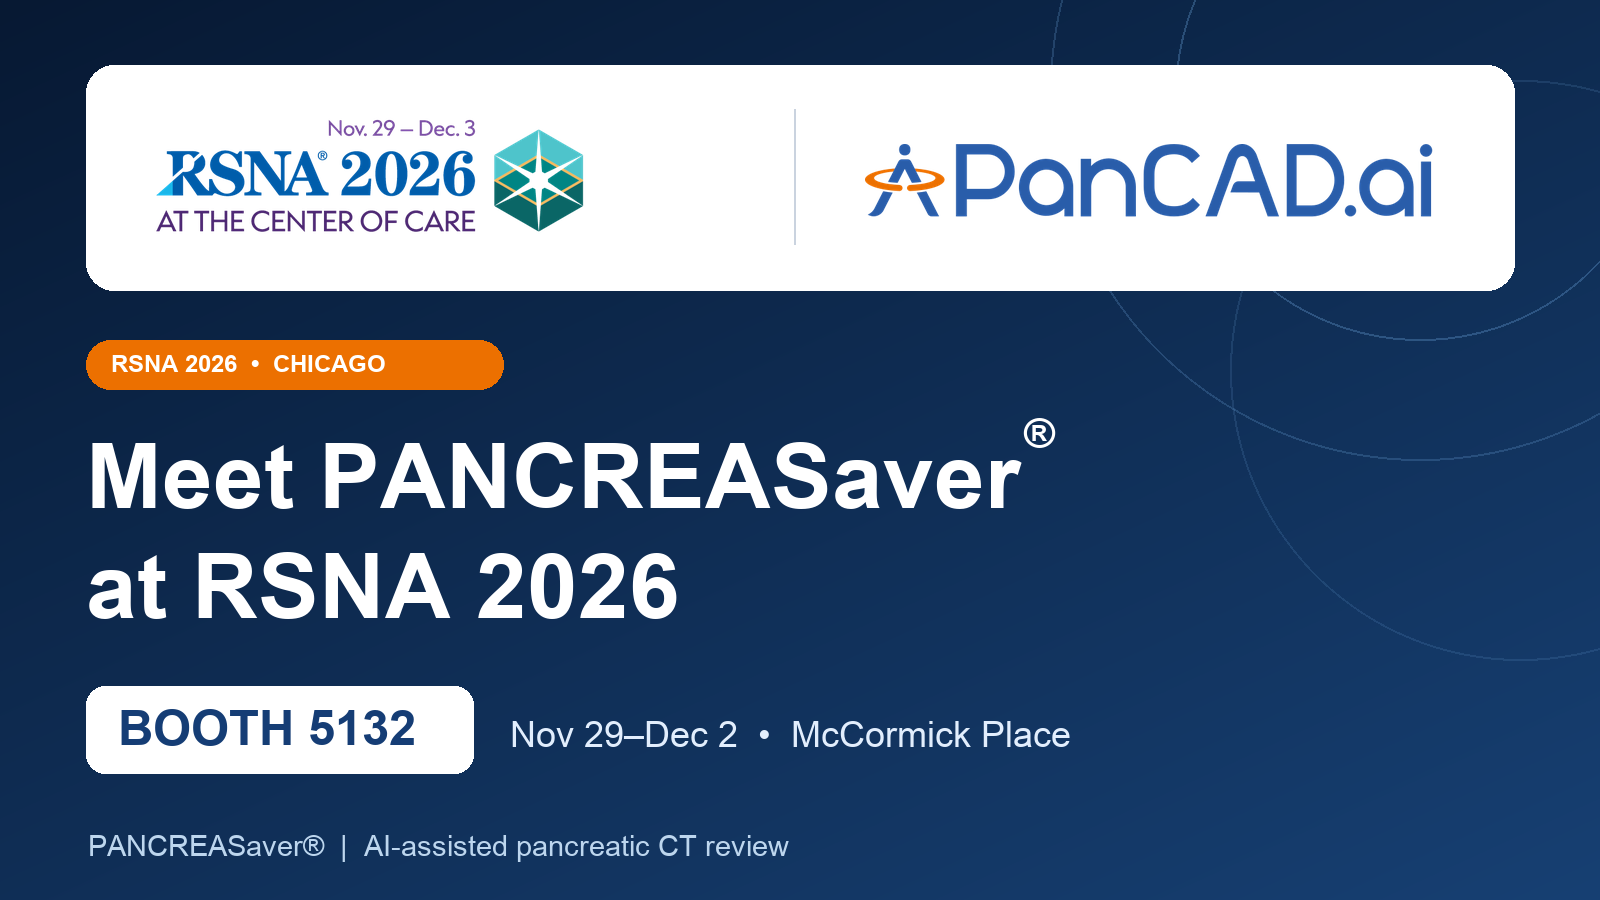
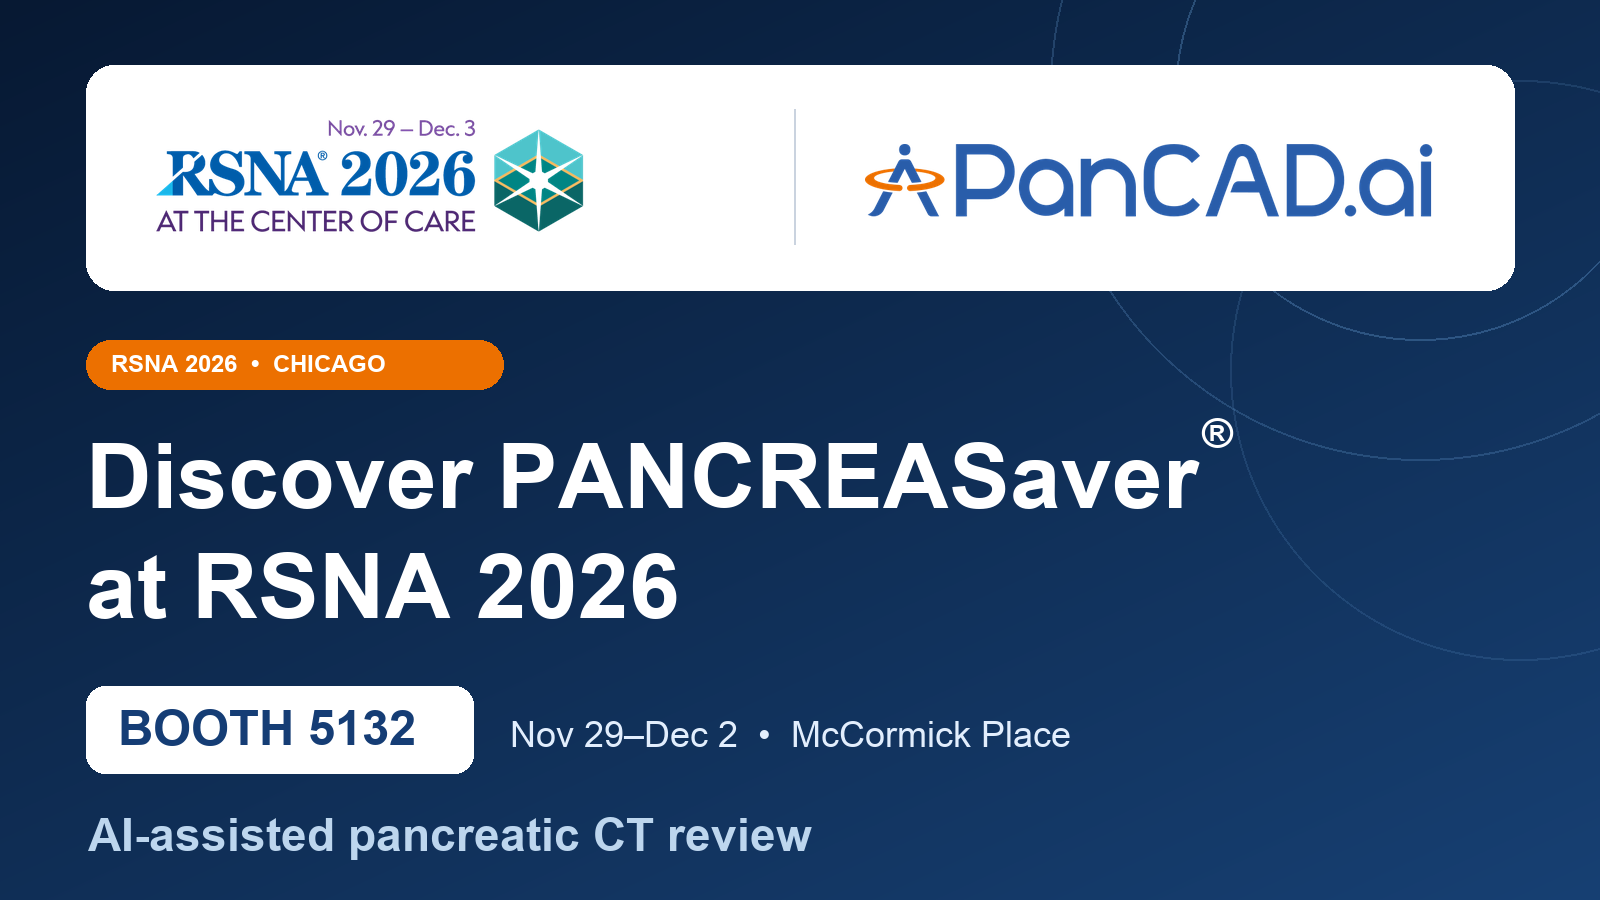
deploy: 5dae887a967a9b906810fe39873ad9cbc3379bc0

Changed region(s): [[0.0625, 0.4667, 0.75, 0.5911], [0.0625, 0.9022, 0.5, 0.9644], [0.75, 0.4667, 0.7812, 0.4978]]

diff --git a/new_pancadai/v11/en/rsna-2026.html b/new_pancadai/v11/en/rsna-2026.html
@@ -6,10 +6,10 @@
   <meta charset="utf-8">
   <meta name="viewport" content="width=device-width, initial-scale=1">
   <meta name="theme-color" content="#102b4f">
-  <title>Meet PANCREASaver® at RSNA 2026 | Booth 5132</title>
-  <meta name="description" content="Meet PANCREASaver® at RSNA 2026, Booth 5132, McCormick Place, Chicago. Schedule a conversation about clinical evidence, partnerships, and imaging workflow integration.">
+  <title>Discover PANCREASaver® at RSNA 2026 | Booth 5132</title>
+  <meta name="description" content="Discover PANCREASaver® at RSNA 2026, Booth 5132, McCormick Place, Chicago. Schedule a conversation about clinical evidence, partnerships, and imaging workflow integration.">
   <meta property="og:type" content="website">
-  <meta property="og:title" content="Meet PANCREASaver® at RSNA 2026 | Booth 5132">
+  <meta property="og:title" content="Discover PANCREASaver® at RSNA 2026 | Booth 5132">
   <meta property="og:description" content="Discuss PANCREASaver® and schedule a demo with PanCAD.ai at Booth 5132.">
   <meta property="og:image" content="https://www.pancad.ai/assets/rsna-2026/meet-pancad-rsna-2026.png">
   <meta property="og:url" content="https://www.pancad.ai/en/rsna-2026.html">
@@ -19,7 +19,7 @@
   <script defer src="https://challenges.cloudflare.com/turnstile/v0/api.js?render=explicit"></script>
   <script defer src="../js/rsna-demo.js?v=1"></script>
   <script type="application/ld+json">
-  {"@context":"https://schema.org","@type":"Event","name":"Meet PANCREASaver® at RSNA 2026","startDate":"2026-11-29","endDate":"2026-12-02","eventAttendanceMode":"https://schema.org/OfflineEventAttendanceMode","location":{"@type":"Place","name":"McCormick Place, Booth 5132","address":{"@type":"PostalAddress","streetAddress":"2301 S. Lake Shore Drive","addressLocality":"Chicago","addressRegion":"IL","postalCode":"60616","addressCountry":"US"}},"organizer":{"@type":"Organization","name":"PanCAD.ai","url":"https://www.pancad.ai/"},"description":"Meet the PanCAD.ai team during the RSNA 2026 Technical Exhibits to discuss PANCREASaver® and imaging workflow needs."}
+  {"@context":"https://schema.org","@type":"Event","name":"Discover PANCREASaver® at RSNA 2026","startDate":"2026-11-29","endDate":"2026-12-02","eventAttendanceMode":"https://schema.org/OfflineEventAttendanceMode","location":{"@type":"Place","name":"McCormick Place, Booth 5132","address":{"@type":"PostalAddress","streetAddress":"2301 S. Lake Shore Drive","addressLocality":"Chicago","addressRegion":"IL","postalCode":"60616","addressCountry":"US"}},"organizer":{"@type":"Organization","name":"PanCAD.ai","url":"https://www.pancad.ai/"},"description":"Meet the PanCAD.ai team during the RSNA 2026 Technical Exhibits to discuss PANCREASaver® and imaging workflow needs."}
   </script>
 </head>
 <body class="rsna-page">
@@ -34,7 +34,7 @@
         <div class="rsna-hero-grid">
           <div class="rsna-hero-content">
             <p class="rsna-kicker">CHICAGO · NOV 29–DEC 2, 2026</p>
-            <h1 id="rsna-title">Meet PANCREASaver<sup>®</sup> <span>at RSNA 2026</span></h1>
+            <h1 id="rsna-title">Discover PANCREASaver<sup>®</sup> <span>at RSNA 2026</span></h1>
             <p class="rsna-lede">Visit our team at <strong>Booth 5132</strong> to learn how PANCREASaver® flags suspicious pancreatic findings on contrast-enhanced abdominal CT for radiologist review.</p>
             <div class="rsna-hero-facts">
               <div><span>WHERE</span><strong>McCormick Place, Chicago</strong></div>

diff --git a/v11/en/rsna-2026.html b/v11/en/rsna-2026.html
@@ -6,10 +6,10 @@
   <meta charset="utf-8">
   <meta name="viewport" content="width=device-width, initial-scale=1">
   <meta name="theme-color" content="#102b4f">
-  <title>Meet PANCREASaver® at RSNA 2026 | Booth 5132</title>
-  <meta name="description" content="Meet PANCREASaver® at RSNA 2026, Booth 5132, McCormick Place, Chicago. Schedule a conversation about clinical evidence, partnerships, and imaging workflow integration.">
+  <title>Discover PANCREASaver® at RSNA 2026 | Booth 5132</title>
+  <meta name="description" content="Discover PANCREASaver® at RSNA 2026, Booth 5132, McCormick Place, Chicago. Schedule a conversation about clinical evidence, partnerships, and imaging workflow integration.">
   <meta property="og:type" content="website">
-  <meta property="og:title" content="Meet PANCREASaver® at RSNA 2026 | Booth 5132">
+  <meta property="og:title" content="Discover PANCREASaver® at RSNA 2026 | Booth 5132">
   <meta property="og:description" content="Discuss PANCREASaver® and schedule a demo with PanCAD.ai at Booth 5132.">
   <meta property="og:image" content="https://www.pancad.ai/assets/rsna-2026/meet-pancad-rsna-2026.png">
   <meta property="og:url" content="https://www.pancad.ai/en/rsna-2026.html">
@@ -19,7 +19,7 @@
   <script defer src="https://challenges.cloudflare.com/turnstile/v0/api.js?render=explicit"></script>
   <script defer src="../js/rsna-demo.js?v=1"></script>
   <script type="application/ld+json">
-  {"@context":"https://schema.org","@type":"Event","name":"Meet PANCREASaver® at RSNA 2026","startDate":"2026-11-29","endDate":"2026-12-02","eventAttendanceMode":"https://schema.org/OfflineEventAttendanceMode","location":{"@type":"Place","name":"McCormick Place, Booth 5132","address":{"@type":"PostalAddress","streetAddress":"2301 S. Lake Shore Drive","addressLocality":"Chicago","addressRegion":"IL","postalCode":"60616","addressCountry":"US"}},"organizer":{"@type":"Organization","name":"PanCAD.ai","url":"https://www.pancad.ai/"},"description":"Meet the PanCAD.ai team during the RSNA 2026 Technical Exhibits to discuss PANCREASaver® and imaging workflow needs."}
+  {"@context":"https://schema.org","@type":"Event","name":"Discover PANCREASaver® at RSNA 2026","startDate":"2026-11-29","endDate":"2026-12-02","eventAttendanceMode":"https://schema.org/OfflineEventAttendanceMode","location":{"@type":"Place","name":"McCormick Place, Booth 5132","address":{"@type":"PostalAddress","streetAddress":"2301 S. Lake Shore Drive","addressLocality":"Chicago","addressRegion":"IL","postalCode":"60616","addressCountry":"US"}},"organizer":{"@type":"Organization","name":"PanCAD.ai","url":"https://www.pancad.ai/"},"description":"Meet the PanCAD.ai team during the RSNA 2026 Technical Exhibits to discuss PANCREASaver® and imaging workflow needs."}
   </script>
 </head>
 <body class="rsna-page">
@@ -34,7 +34,7 @@
         <div class="rsna-hero-grid">
           <div class="rsna-hero-content">
             <p class="rsna-kicker">CHICAGO · NOV 29–DEC 2, 2026</p>
-            <h1 id="rsna-title">Meet PANCREASaver<sup>®</sup> <span>at RSNA 2026</span></h1>
+            <h1 id="rsna-title">Discover PANCREASaver<sup>®</sup> <span>at RSNA 2026</span></h1>
             <p class="rsna-lede">Visit our team at <strong>Booth 5132</strong> to learn how PANCREASaver® flags suspicious pancreatic findings on contrast-enhanced abdominal CT for radiologist review.</p>
             <div class="rsna-hero-facts">
               <div><span>WHERE</span><strong>McCormick Place, Chicago</strong></div>

diff --git a/new_pancadai/v11/en/product.html b/new_pancadai/v11/en/product.html
@@ -260,7 +260,7 @@
 </div>
 
 <div class="rsna-announcement">
-  <span>MEET PANCREASaver<sup>®</sup> AT RSNA 2026</span>
+  <span>DISCOVER PANCREASaver<sup>®</sup> AT RSNA 2026</span>
   <strong>Booth 5132 · Chicago · Nov 29–Dec 2</strong>
   <a href="rsna-2026.html" target="_blank" rel="noopener">Schedule a demo ↗</a>
 </div>
@@ -290,11 +290,11 @@
 
 <section class="rsna-home" aria-labelledby="rsna-home-title">
   <div class="wrap rsna-home-layout">
-    <img class="rsna-home-art" src="../assets/rsna-2026/meet-pancad-rsna-2026.png" width="1600" height="900" alt="RSNA 2026 and PanCAD.ai logos. Meet PANCREASaver® at Booth 5132 in Chicago, November 29 to December 2." loading="eager">
+    <img class="rsna-home-art" src="../assets/rsna-2026/meet-pancad-rsna-2026.png" width="1600" height="900" alt="RSNA 2026 and PanCAD.ai logos. Discover PANCREASaver® at Booth 5132 in Chicago, November 29 to December 2." loading="eager">
     <div class="rsna-home-copy">
       <span class="rsna-home-kicker">MEET US AT RSNA 2026</span>
       <h2 id="rsna-home-title">See PANCREASaver® in conversation with our team.</h2>
-      <p>Meet PANCREASaver<sup>®</sup> at <strong>Booth 5132</strong>, McCormick Place, Chicago. Explore AI-assisted review of contrast-enhanced abdominal CT and discuss your clinical or integration needs.</p>
+      <p>Discover PANCREASaver<sup>®</sup> at <strong>Booth 5132</strong>, McCormick Place, Chicago. Explore AI-assisted review of contrast-enhanced abdominal CT and discuss your clinical or integration needs.</p>
       <p class="rsna-home-meta">Technical Exhibits · November 29–December 2, 2026 · 10 a.m.–5 p.m. CT</p>
       <a class="btn btn-primary" href="rsna-2026.html" target="_blank" rel="noopener" aria-label="See RSNA 2026 details and schedule a demo in a new window">Explore the event &amp; schedule a demo ↗</a>
     </div>

diff --git a/v11/en/product.html b/v11/en/product.html
@@ -260,7 +260,7 @@
 </div>
 
 <div class="rsna-announcement">
-  <span>MEET PANCREASaver<sup>®</sup> AT RSNA 2026</span>
+  <span>DISCOVER PANCREASaver<sup>®</sup> AT RSNA 2026</span>
   <strong>Booth 5132 · Chicago · Nov 29–Dec 2</strong>
   <a href="rsna-2026.html" target="_blank" rel="noopener">Schedule a demo ↗</a>
 </div>
@@ -290,11 +290,11 @@
 
 <section class="rsna-home" aria-labelledby="rsna-home-title">
   <div class="wrap rsna-home-layout">
-    <img class="rsna-home-art" src="../assets/rsna-2026/meet-pancad-rsna-2026.png" width="1600" height="900" alt="RSNA 2026 and PanCAD.ai logos. Meet PANCREASaver® at Booth 5132 in Chicago, November 29 to December 2." loading="eager">
+    <img class="rsna-home-art" src="../assets/rsna-2026/meet-pancad-rsna-2026.png" width="1600" height="900" alt="RSNA 2026 and PanCAD.ai logos. Discover PANCREASaver® at Booth 5132 in Chicago, November 29 to December 2." loading="eager">
     <div class="rsna-home-copy">
       <span class="rsna-home-kicker">MEET US AT RSNA 2026</span>
       <h2 id="rsna-home-title">See PANCREASaver® in conversation with our team.</h2>
-      <p>Meet PANCREASaver<sup>®</sup> at <strong>Booth 5132</strong>, McCormick Place, Chicago. Explore AI-assisted review of contrast-enhanced abdominal CT and discuss your clinical or integration needs.</p>
+      <p>Discover PANCREASaver<sup>®</sup> at <strong>Booth 5132</strong>, McCormick Place, Chicago. Explore AI-assisted review of contrast-enhanced abdominal CT and discuss your clinical or integration needs.</p>
       <p class="rsna-home-meta">Technical Exhibits · November 29–December 2, 2026 · 10 a.m.–5 p.m. CT</p>
       <a class="btn btn-primary" href="rsna-2026.html" target="_blank" rel="noopener" aria-label="See RSNA 2026 details and schedule a demo in a new window">Explore the event &amp; schedule a demo ↗</a>
     </div>

diff --git a/new_pancadai/v11/assets/rsna-2026/build_artwork.py b/new_pancadai/v11/assets/rsna-2026/build_artwork.py
@@ -40,13 +40,14 @@ bold = lambda size: ImageFont.truetype(str(font_dir / "Arial Bold.ttf"), size)
 normal = lambda size: ImageFont.truetype(str(font_dir / "Arial.ttf"), size)
 d.rounded_rectangle((86, 340, 503, 389), radius=24, fill=(236, 112, 0, 255))
 d.text((111, 350), "RSNA 2026  •  CHICAGO", font=bold(24), fill="white")
-title = "Meet PANCREASaver"
+title = "Discover PANCREASaver"
 d.text((86, 425), title, font=bold(91), fill="white")
 d.text((86 + bold(91).getlength(title) + 4, 409), "®", font=bold(42), fill="white")
 d.text((86, 535), "at RSNA 2026", font=bold(91), fill="white")
 d.rounded_rectangle((86, 686, 473, 773), radius=19, fill=(255, 255, 255, 255))
 d.text((118, 700), "BOOTH 5132", font=bold(49), fill=(21, 61, 117))
 d.text((510, 714), "Nov 29–Dec 2  •  McCormick Place", font=normal(36), fill=(226, 238, 253))
-d.text((88, 829), "PANCREASaver®  |  AI-assisted pancreatic CT review", font=normal(29), fill=(189, 214, 238))
+subtitle = "AI-assisted pancreatic CT review"
+d.text((88, 809), subtitle, font=bold(46), fill=(189, 214, 238))
 im.save(OUT, optimize=True)
 print(OUT)

diff --git a/v11/assets/rsna-2026/build_artwork.py b/v11/assets/rsna-2026/build_artwork.py
@@ -40,13 +40,14 @@ bold = lambda size: ImageFont.truetype(str(font_dir / "Arial Bold.ttf"), size)
 normal = lambda size: ImageFont.truetype(str(font_dir / "Arial.ttf"), size)
 d.rounded_rectangle((86, 340, 503, 389), radius=24, fill=(236, 112, 0, 255))
 d.text((111, 350), "RSNA 2026  •  CHICAGO", font=bold(24), fill="white")
-title = "Meet PANCREASaver"
+title = "Discover PANCREASaver"
 d.text((86, 425), title, font=bold(91), fill="white")
 d.text((86 + bold(91).getlength(title) + 4, 409), "®", font=bold(42), fill="white")
 d.text((86, 535), "at RSNA 2026", font=bold(91), fill="white")
 d.rounded_rectangle((86, 686, 473, 773), radius=19, fill=(255, 255, 255, 255))
 d.text((118, 700), "BOOTH 5132", font=bold(49), fill=(21, 61, 117))
 d.text((510, 714), "Nov 29–Dec 2  •  McCormick Place", font=normal(36), fill=(226, 238, 253))
-d.text((88, 829), "PANCREASaver®  |  AI-assisted pancreatic CT review", font=normal(29), fill=(189, 214, 238))
+subtitle = "AI-assisted pancreatic CT review"
+d.text((88, 809), subtitle, font=bold(46), fill=(189, 214, 238))
 im.save(OUT, optimize=True)
 print(OUT)
